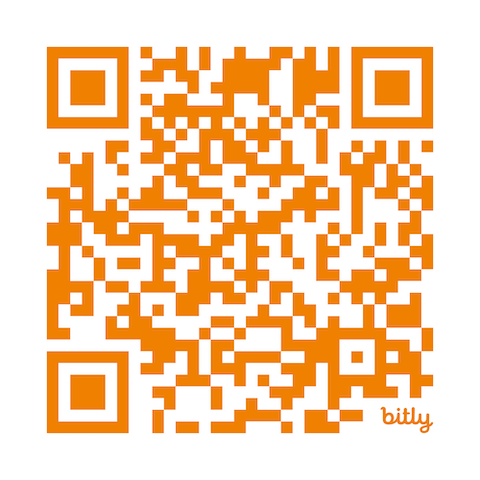
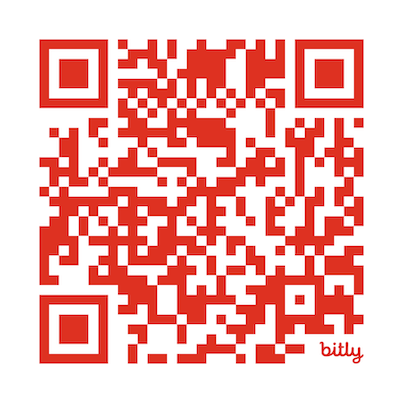
Infrastructure Monitoring and Data Security - IBM Speakers - September 2025

diff --git a/index.html b/index.html
@@ -74,13 +74,13 @@
 			         data-vertical="--section--"  
 			         data-notes="^Note:"
 			         data-charset="iso-8859-15"
-			    ></section>
+			    ></section-->
 				<section data-markdown="sections/news.md"
 						 data-separator="--slide--"
 						 data-vertical="--section--"
 						 data-notes="^Note:"
 						 data-charset="iso-8859-15"
-				></section-->
+				></section>
 			    <section data-markdown="sections/speaker.md"
 			         data-separator="--slide--"  
 			         data-vertical="--section--"  

diff --git a/sections/cjug.md b/sections/cjug.md
@@ -1,28 +1,20 @@
-### Chicago Java Users Group
+## Chicago Java Users Group
 ---
-#### August 19, 2025
-### 82 Bugs I Collected in a Year 
-#### You Won't Believe
-### Made It to Production
-## by Francois Martin
+#### September 15, 2025
+## Infrastructure Resource Monitoring
+## & Data Security for Developers
+### by Madhu Bhangi and Kalyan Tatavarthy (from IBM)
 <div style="background-color: white; margin-top: 10px;">
 	<img src="images/cjug.gif" style="border: 20px; box-shadow:none; margin:5px"/>
 </div>
 
 --section--
-## In Collaboration with
-#### Chicago Kotlin Users Group
-<div style="background-color: white; margin-top: 10px;">
-	<img src="images/ckug.jpeg" style="border: 20px; box-shadow:none; margin:5px"/>
-</div>
-
---section--
 # IMPORTANT ANNOUNCEMENT
-### WE ARE MIGRATING OUR MEMBERSHIP & EVENT PLATFORM TO
+### WE HAVE MIGRATED OUR MEMBERSHIP & EVENT PLATFORM TO
 ##  LUMA
 ### Please subscribe to: https://lu.ma/cjug
 <br/>
-#### Last Day on Meetup.com: *August 24*
+#### The Old Meetup.com site has been deprecated as of September 1, 2025
 
 --section--
 ## Today's Raffle
@@ -30,7 +22,7 @@
 <img src="images/JetBrains-2022-twitter.jpg" style="border:none; box-shadow:none; margin: 14px; background:white;"/>
 <img src="images/CJUG-JB-raffle-QR.png" style="border:none; box-shadow:none; margin: 14px; background:white;"/>
 <br/>
-##### Submit your info here to enter into the drawings: [https://bit.ly/45sdexD](https://bit.ly/45sdexD)
+##### Submit your info here to enter into the drawings: [https://bit.ly/47PQfhD](https://bit.ly/47PQfhD)
 ####NOTE: You are ineligible to participate in the JetBrains Raffles
 ####if you won a license within the last 9 months!
 
@@ -39,7 +31,6 @@
  * Please start using Luma: [https://lu.ma/cjug](https://lu.ma/cjug)
  * Chicago Tech Slack (http://www.chicago-tech.slack.com/)
  * Current Java News! (http://www.javaoffheap.com)
- * (to be deprecated by *August 24*) meetup.com (https://www.meetup.com/ChicagoJUG/)
 
 --section--
 #Toot!
@@ -66,7 +57,7 @@
 
 <img src="images/cjug-discord-qrcode.png" style="border:none; box-shadow:none; margin: 30px; background:white;"/>
 
-Join this room: [#2025-08-19-82-bugs-in-production](https://discord.gg/7y7jmrCs)
+Join this room: [#2025-09-15-infra-monitoring-datasec-ibm](https://discord.gg/23qBZa9K)
 
 --section--
 ##Community Info
@@ -79,9 +70,8 @@ Join this room: [#2025-08-19-82-bugs-in-production](https://discord.gg/7y7jmrCs)
 --section--
 ## Upcoming Event(s)
 
-* September ? TBD:
-* October: Discover will be sponsoring / Java 25
-* November ? TBD: Michael Carducci? Haoyi Li? (postponed?)
+* October 16: Sponsored by Discover Financial Services - (Billy Korando-Java 25? & Ankith Jain-SpringAI)
+* November 13: Michael Carducci - (Microservices)
 <br/><br/>
 #### Other confirmed speakers include: 
 - Alina Yurenko (Oracle/GraalVM), Jose Paumard (Oracle)

diff --git a/sections/speaker.md b/sections/speaker.md
@@ -1,12 +1,19 @@
-### Our Speaker Today
-</br>
-### Francois Martin [@fmartin_](https://www.linkedin.com/in/fran%C3%A7oismartin/)
-- Senior Full-Stack Software Engineer at Karakun (Switzerland)
-- International Speaker
-- International Software Testing Board Member
-- Author on Java, as well as Testing topics
-- Committer at PreferencesFX and WorkBenchFX
-- Fluency in German, English, and French
+### Speaker #1 from IBM:
+
+### Madhu Bhangi [@madhu-bhangi ](https://www.linkedin.com/in/madhu-bhangi)
+- Principal Sales Architect at IBM
+- AI & Automation Design, Deployment
+- Enterpirse Architect in Cloud, Middleware, Containers
+- Previous companies included CenturyLink, Qwest Communications
+
+
+--section--
+### Speaker #2 from IBM:
+
+### Kalyan Tatavarthy [@kalyan-tatavarthy](https://www.linkedin.com/in/kalyan-tatavarthy)
+- Customer Success Architect at IBM
+- Product areas include WatsonX, Guardium
+- Previous companies included Kiteworks, Accellion
 
 
 

diff --git a/sections/news.md b/sections/news.md
@@ -1,25 +1,7 @@
 # News 
 
 --section--
-## Happy 30th Birthday, Java
-[Livestream](https://www.youtube.com/watch?v=LHHPbI7sYv8)
+## Java 25 Launch:  Tomorrow 9/16/2025
 
---section--
-## Spring 7 & Spring Boot 4
-- These major versions are coming soon.
-- Jspecify Adoption
+Launch Stream:  https://dev.java/community/java-25-launch
 
---section--
-## Spring + Jetbrains
-- Jetbrains have partnered with Spring to push backend Kotlin support forward.
-- [https://blog.jetbrains.com/kotlin/2025/05/strategic-partnership-with-spring/](https://blog.jetbrains.com/kotlin/2025/05/strategic-partnership-with-spring/)
-
---section--
-## Kotlin 2.2
-- Guard conditions in when-with-subject
-- Multi-dollar interpolation
-- Non-local break and continue
-- Context parameters in Beta
-
---section--
-## K2 now default in Intellij

diff --git a/sections/sponsors.md b/sections/sponsors.md
@@ -1,10 +1,11 @@
-### Our Gold Sponsor - Expired June 2025 - Thank You
-<img src="images/neo4j.png" style="border:none; box-shadow:none; margin: 30px; background:white;"/>
+### Today's Event Host and Sponsor: IBM
+
+<img src="images/ibm.jpg" style="border:none; box-shadow:none; margin: 30px"/>
 
 --section--
-### Today's Event Host and Sponsor: GrubHub
 
-<img src="images/grubhub.jpeg" style="border:none; box-shadow:none; margin: 30px"/>
+### Our Gold Sponsor - Expired June 2025 - Thank You
+<img src="images/neo4j.png" style="border:none; box-shadow:none; margin: 30px; background:white;"/>
 
 
 --section--
